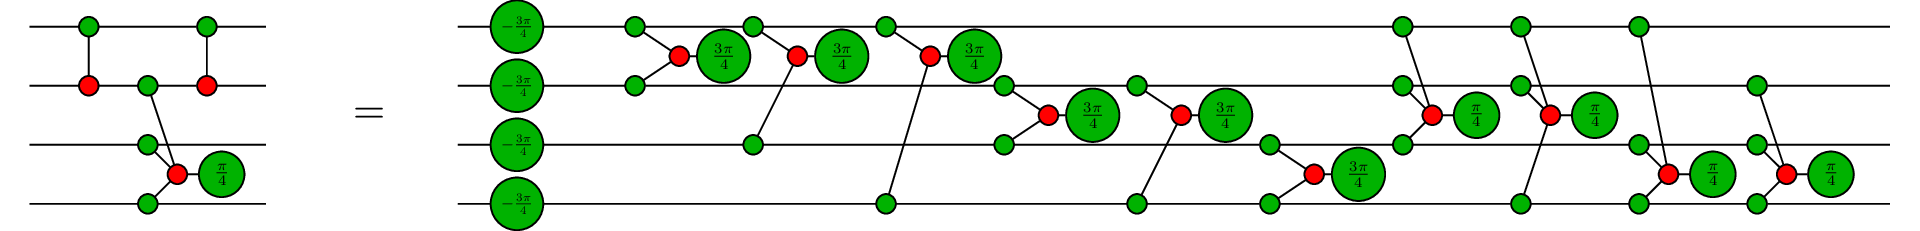
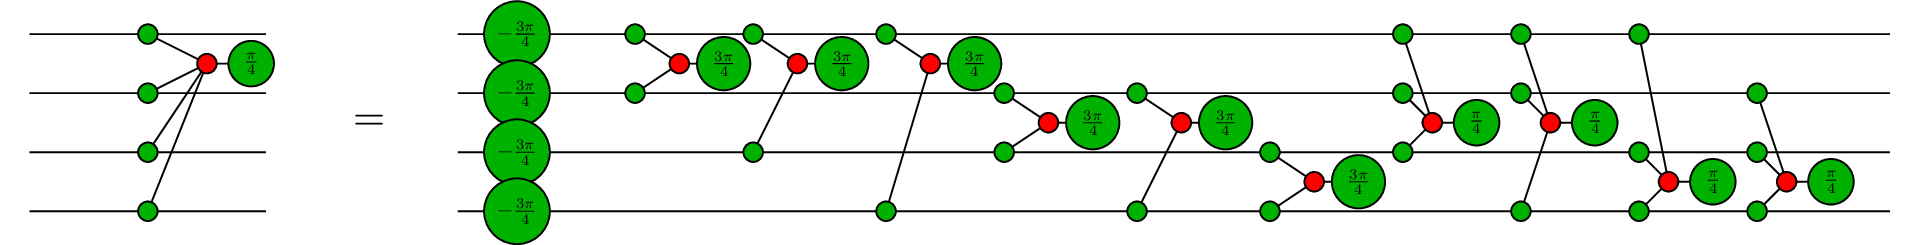
Updated pictures

diff --git a/assets/diagram.tex b/assets/diagram.tex
@@ -22,8 +22,5 @@
 \usepackage{yfonts} %for Fraktur font
 
 \begin{document}
-\begin{align*}
-|0\rangle ^{\otimes n} &\mapsto |0\rangle ^{\otimes m} &&|+\rangle ^{\otimes n} \mapsto |+\rangle ^{\otimes m} \\
-|1\rangle ^{\otimes n} &\mapsto e^{i\alpha}|1\rangle ^{\otimes m} &&|-\rangle ^{\otimes n} \mapsto e^{i\alpha}|-\rangle ^{\otimes m}
-\end{align*}
+\ctikzfig{phase-gadget}
 \end{document}
